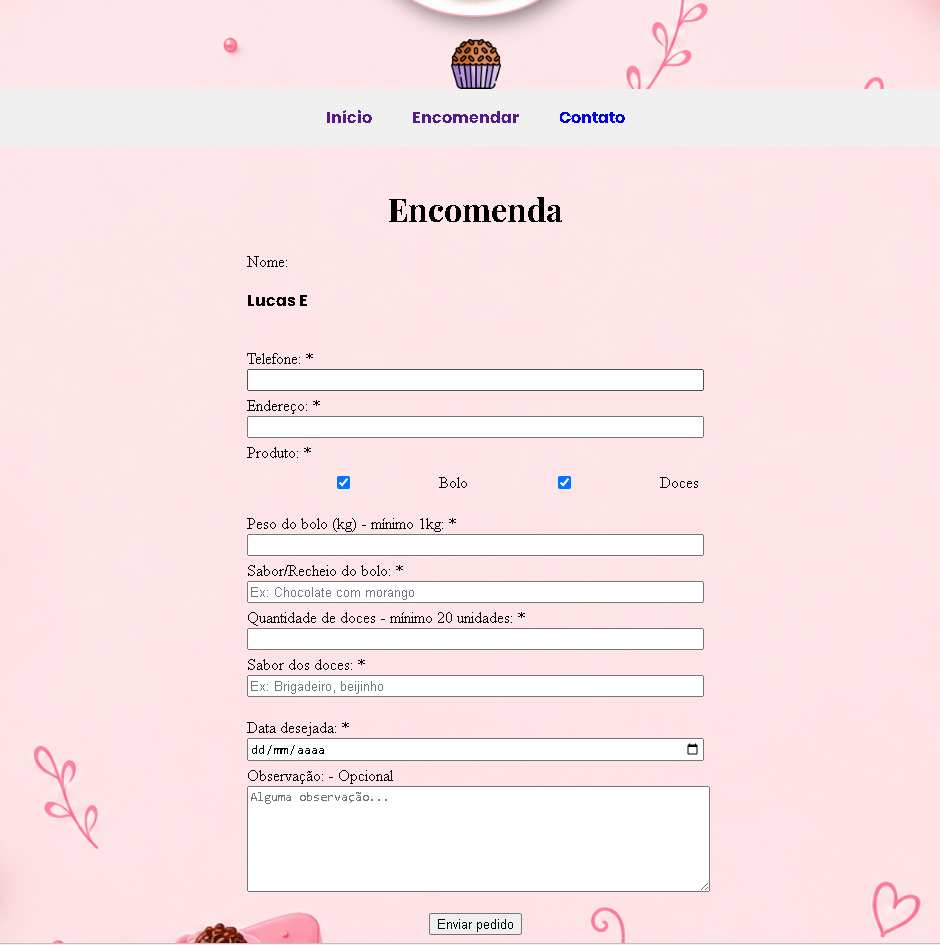
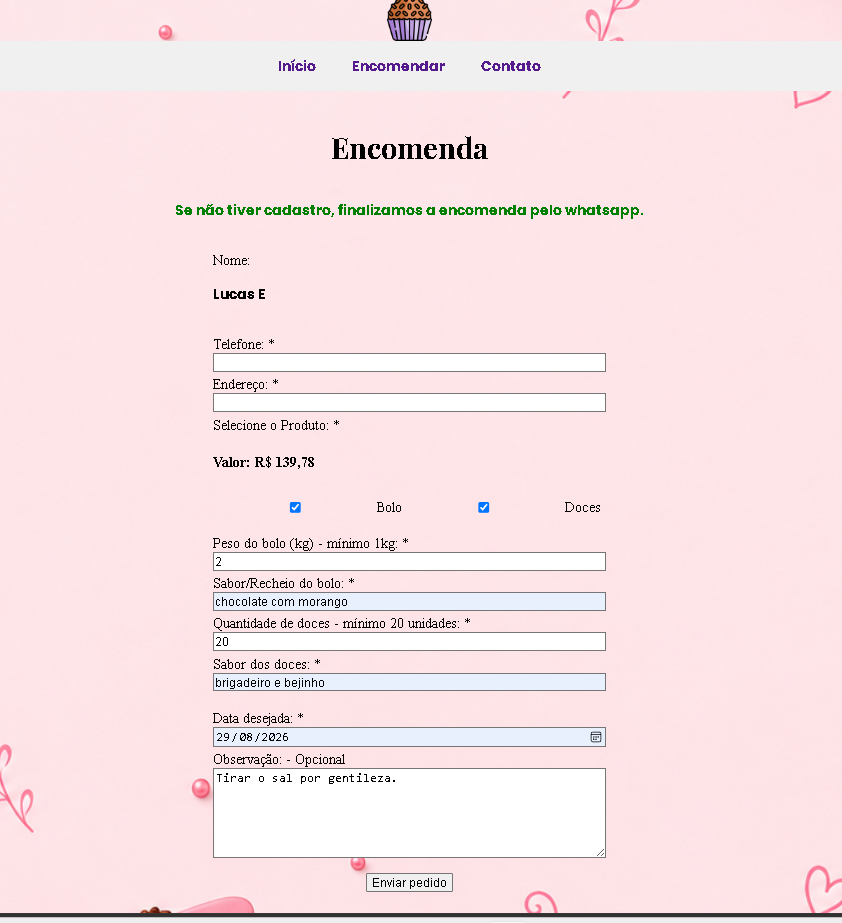
feat: Removendo algumas mensagens generica de erro e atualizando o readme

diff --git a/actions/cadastroUsuario.php b/actions/cadastroUsuario.php
@@ -177,6 +177,9 @@ try {
 
 } catch (Exception $e) {
 
-    echo "O cadastro foi realizado, mas não foi possível enviar o e-mail.";
+    error_log("Falha ao enviar e-mail de cadastro para $email: " . $e->getMessage());
 
 }
+
+header("Location: ../pages/auth/confirmarEmail.php?email=" . urlencode($email));
+exit;

diff --git a/README.md b/README.md
@@ -35,18 +35,22 @@ Projeto desenvolvido como estudo prático de PHP, com foco em fundamentos de bac
     <td align="center"><b>Login</b></td>
     <td align="center"><b>Usuário logado</b></td>
     <td align="center"><b>Minha conta</b></td>
+    <td align="center"><b>pedido</b></td>
     <td align="center"><b>inicio</b></td>
     <td align="center"><b>encomenda</b></td>
     <td align="center"><b>contato</b></td>
+    
 
   </tr>
   <tr>
     <td><img src="img-portfolio/login.png" width="260"></td>
     <td><img src="img-portfolio/logado.png" width="260"></td>
     <td><img src="img-portfolio/minha-conta.png" width="260"></td>
+    <td><img src="img-portfolio/pedido.png" width="260"></td>
     <td><img src="img-portfolio/inicio.png" width="260"></td>
     <td><img src="img-portfolio/encomenda.png" width="260"></td>
     <td><img src="img-portfolio/contato.png" width="260"></td>
+    
   </tr>
 </table>
 
